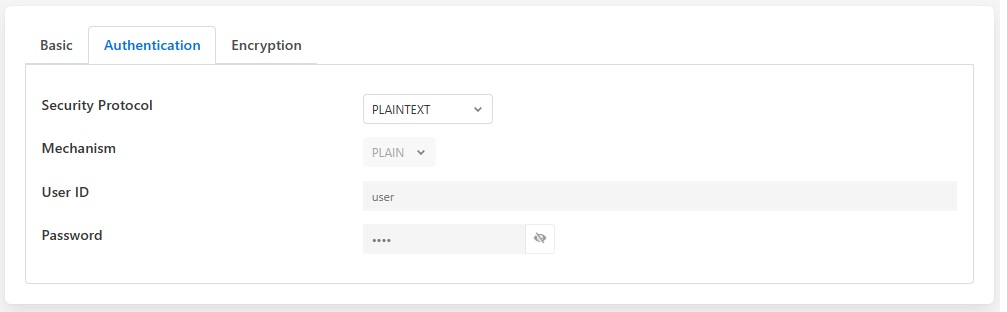
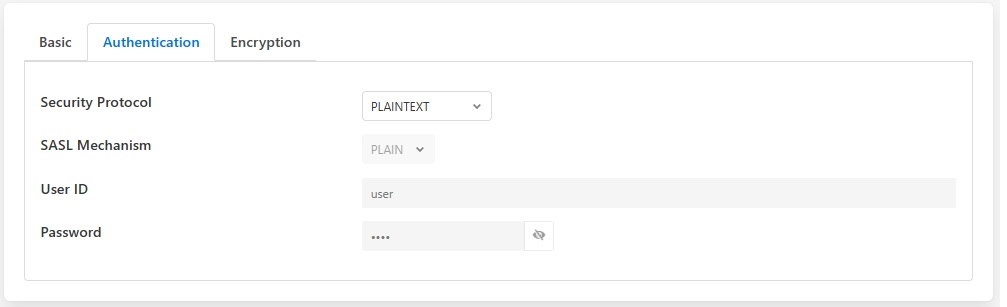
FOGL-7859: Fixed review comments

diff --git a/plugin.cpp b/plugin.cpp
@@ -54,7 +54,7 @@ static const char *default_config = QUOTE({
 		"options" : ["Objects","Strings"]
 		},
 	"KafkaSecurityProtocol": {
-		"description": "Security protocol to be used to connect with kafka broker",
+		"description": "Security protocol to be used to connect to kafka broker",
 		"type": "enumeration",
 		"default": "PLAINTEXT",
 		"order": "4",
@@ -63,12 +63,12 @@ static const char *default_config = QUOTE({
 		"options" : ["PLAINTEXT", "SASL_PLAINTEXT", "SSL", "SASL_SSL"]
 		},
 	"KafkaSASLMechanism": {
-		"description": "Security protocol to be used to connect with kafka broker",
+		"description": "Authentication mechanism to be used to connect to kafka broker",
 		"type": "enumeration",
 		"default": "PLAIN",
 		"order": "5",
 		"group": "Authentication",
-		"displayName": "Mechanism",
+		"displayName": "SASL Mechanism",
 		"options" : ["PLAIN"],
 		"validity" : "KafkaSecurityProtocol == \"SASL_PLAINTEXT\" || KafkaSecurityProtocol == \"SASL_SSL\""
 		},

diff --git a/docs/index.rst b/docs/index.rst
@@ -28,7 +28,7 @@ The configuration of the *Kafka* plugin is very simple, consisting of four param
 
   - **Security Protocol**: Security protocol to be used to connect to the kafka broker.
 
-  - **Mechanism**: Authentication mechanism to be used to connect to kafka broker. Only PLAIN mechanism is supported as of now, support for other authentication mechanism will be added soon
+  - **SASL Mechanism**: Authentication mechanism to be used to connect to kafka broker. Only PLAIN mechanism is supported as of now, support for other authentication mechanism will be added soon
 
   - **User ID**: The User ID to use when the Mechansim is set to SASL_PLAINTEXT or SASL_SSL.
 
@@ -52,12 +52,15 @@ All the certificates must be added to the certificate store within Fledge.
 Sending To Event Azure Hub
 ==========================
 
-The Kafka plugin can be used to send data to the Azure Event Hub, this will require the following configuration item settings
+The Kafka plugin can be used to send data to the Azure Event Hub, configured with Shared Access Signature (SAS); This will require the following configuration settings,
 
   - **Bootstrap Brokers**: Azure event hub endpoint
   - **Topic**: Azure event hub name
   - **Security Protocol**: SASL_SSL
-  - **Mechanism**: PLAIN
+  - **SASL Mechanism**: PLAIN
   - **User ID**: $ConnectionString
   - **SSL Certificate Password**:  Must be set blank
 
+.. |location_link| raw:: html
+
+  <a href="https://learn.microsoft.com/en-us/azure/event-hubs/azure-event-hubs-kafka-overview#shared-access-signature-sas" target="_blank">Azure event hub kafka overview</a>
